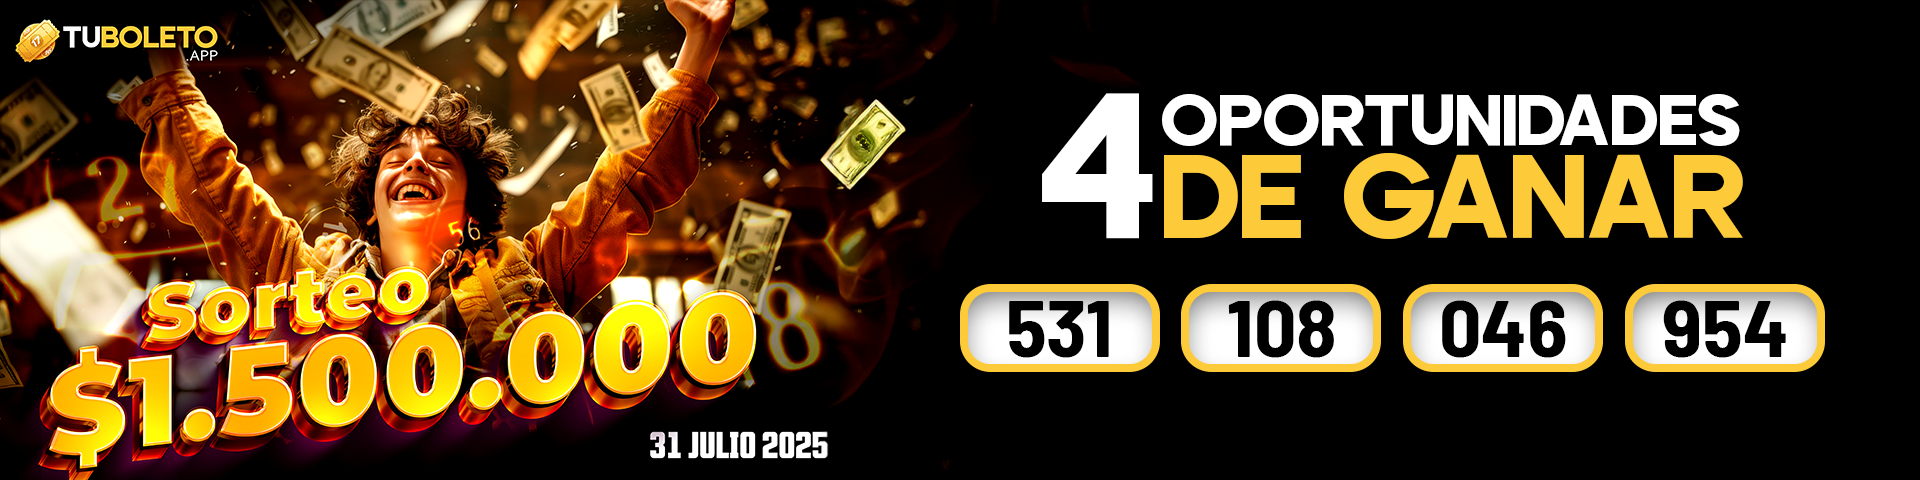
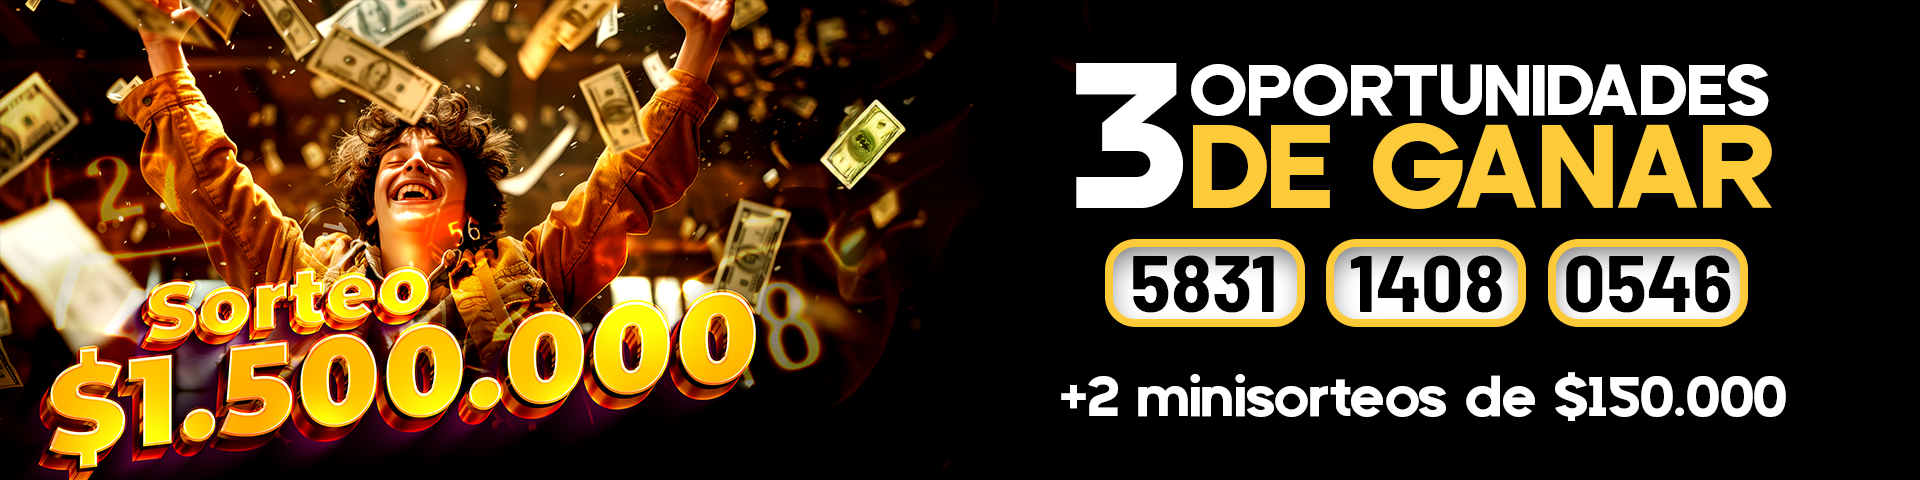
Actualizar estructura de index.html, modificar App.jsx para incluir nuevos componentes y ajustar estilos, además de reemplazar imagen en CarouselHero y realizar cambios en Hero.jsx. Se añade estilo para eliminar botones de incremento en inputs numéricos.

diff --git a/src/components/Main/FormComprador.jsx b/src/components/Main/FormComprador.jsx
@@ -1,0 +1,95 @@
+
+
+const FormComprador = () => {
+
+
+
+  return <div className="h-[600px] flex items-center justify-center w-full">
+  <div className="bg-base-300 p-8 rounded-lg shadow-md w-full max-w-xl">
+    <h2 className="text-2xl font-bold mb-4 text-gray-100">Formulario de Comprador</h2>
+    <form className="space-y-4">
+      <div>
+        <label htmlFor="name" className="block text-sm font-medium text-gray-200">
+          Nombre Completo
+        </label>
+        <input
+          type="text"
+          id="name"
+          name="name"
+          value=""
+          className="mt-1 block w-full rounded-md border-gray-300 shadow-sm focus:ring-blue-500 focus:border-blue-500 p-2 text-gray-100"
+          placeholder="Ingresa tu nombre"
+          required
+        />
+      </div>
+      <div>
+        <label htmlFor="email" className="block text-sm font-medium text-gray-200">
+          Correo Electrónico
+        </label>
+        <input
+          type="email"
+          id="email"
+          name="email"
+          value=""
+          className="mt-1 block w-full rounded-md border-gray-300 shadow-sm focus:ring-blue-500 focus:border-blue-500 p-2 text-gray-100"
+          placeholder="correo@ejemplo.com"
+          required
+        />
+      </div>
+      <div>
+        <label htmlFor="phone" className="block text-sm font-medium text-gray-200">
+          Teléfono
+        </label>
+        <input
+          type="tel"
+          id="phone"
+          name="phone"
+          value=""
+          className="mt-1 block w-full rounded-md border-gray-300 shadow-sm focus:ring-blue-500 focus:border-blue-500 p-2 text-gray-100"
+          placeholder="Número de teléfono"
+          required
+        />
+      </div>
+      <div>
+        <label htmlFor="email" className="block text-sm font-medium text-gray-200">
+          Email
+        </label>
+        <input
+          type="text"
+          id="email"
+          name="email"
+          value=""
+          className="mt-1 block w-full rounded-md border-gray-300 shadow-sm focus:ring-blue-500 focus:border-blue-500 p-2 text-gray-100"
+          placeholder="Ingresa tu dirección"
+          required
+        />
+      </div>
+      <div>
+        <label htmlFor="referido" className="block text-sm font-medium text-gray-200">
+          Referido
+        </label>
+        <input
+          type="text"
+          id="referido"
+          name="referido"
+          value=""
+          className="mt-1 block w-full rounded-md border-gray-300 shadow-sm focus:ring-blue-500 focus:border-blue-500 p-2 text-gray-100"
+          placeholder="Código de referido"
+          required
+        />
+      </div>
+
+      <div>
+        <button
+          type="submit"
+          className="w-full bg-blue-600 text-white py-2 px-4 rounded-md hover:bg-blue-700 transition-colors focus:outline-none focus:ring-2 focus:ring-blue-500 focus:ring-offset-2"
+        >
+          Pagar
+        </button>
+      </div>
+    </form>
+  </div>
+</div>;
+};
+
+export default FormComprador;

diff --git a/src/components/Main/SectionInputs.jsx b/src/components/Main/SectionInputs.jsx
@@ -1,0 +1,47 @@
+import Candado from "../../assets/img/candado.png";
+
+const SectionInputs = () => {
+  return <section className="mb-16 w-full grid place-items-center">
+        <div className="flex flex-col gap-3 px-12 py-12">
+        <h2 className="text-center text-2xl font-bold mt-8" >Elige tus números de la suerte</h2>
+            <div className="place-items-center">
+                <label htmlFor="numero1">Numero #1 <span>(4 cifras)</span>
+                </label>
+                <div className="flex items-center mt-4">
+                    <input type="number" id="numero1" name="numero1" className="bg-transparent text-center border border-white text-white text-2xl w-60 rounded-md p-6 py-2 appearance-none " min="1000" max="9999"  />
+                    <button className="bg-white text-black px-2 py-2 rounded-r-md  cursor-pointer">
+                        <img src={Candado} className="w-6" alt="candado" />
+                    </button>
+                </div>
+            </div>
+            <div className="place-items-center">
+                <label htmlFor="numero2">Numero #2 <span>(4 cifras)</span>
+                </label>
+                <div className="flex items-center mt-4">
+                    <input type="number" id="numero2" name="numero2" className="bg-transparent text-center border border-white text-white text-2xl w-60 rounded-md p-6 py-2 appearance-none  " min={0} max={4} />
+                    <button className="bg-white text-black px-2 py-2 rounded-r-md cursor-pointer">
+                        <img src={Candado} className="w-6" alt="candado" />
+                    </button>
+                </div>
+            </div>
+            <div className="place-items-center">
+                <label htmlFor="numero3">Numero #3 <span>(4 cifras)</span>
+                </label>
+                <div className="flex items-center mt-4">
+                    <input type="number" id="numero3" name="numero3" className="bg-transparent text-center border border-white text-white text-2xl w-60 rounded-md p-6 py-2 appearance-none  " min={0} max={4} />
+                    <button className="bg-white text-black px-2 py-2 rounded-r-md cursor-pointer">
+                        <img src={Candado} className="w-6" alt="candado" />
+                    </button>
+                </div>
+            </div>
+        </div>
+        <div className="flex justify-center gap-3">
+        <button className="btn btn-success">Asegurar</button>
+        
+        <button className="btn btn-outline btn-success">Aleatorio</button>
+        <button className="btn btn-outline btn-error">Limpiar</button>
+        </div>
+    </section>;
+};
+
+export default SectionInputs;

diff --git a/src/components/Hero/Hero.jsx b/src/components/Hero/Hero.jsx
@@ -1,6 +1,6 @@
 export const Hero = () => {
   return (
-    <div className="hero bg-base-200 min-h-[400px] rounded-3xl mb-6">
+    <div className="hero bg-base-300 min-h-[400px] rounded-3xl mb-6">
       <div className="hero-content text-center">
         <div className="max-w-xl">
           <h1 className="text-5xl font-bold">¡Haz realidad tus sueños!</h1>
@@ -9,9 +9,9 @@ export const Hero = () => {
             boleto hoy y da el primer paso hacia el premio que siempre has
             soñado.
           </p>
-          <button className="btn bg-amber-300 text-gray-900 font-bold">
-            ¡Compra tu boleto ahora!
-          </button>
+          {/* <button className="btn bg-amber-300 text-gray-900 font-bold"> */}
+            {/* ¡Compra tu boleto ahora! */}
+          {/* </button> */}
         </div>
       </div>
     </div>

diff --git a/src/App.jsx b/src/App.jsx
@@ -1,15 +1,23 @@
 import Banner from "./components/Hero/Banner";
 import { Hero } from "./components/Hero/Hero";
+import ModalBanner from "./components/Hero/ModalBanner";
 import NavBar from "./components/Hero/NavBar";
+import FormComprador from "./components/Main/FormComprador";
+import SectionInputs from "./components/Main/SectionInputs";
 import { ToggleBillCompleted } from "./components/Main/ToggleBillCompleted";
 
 function App() {
   return (
-    <div className="flex flex-col">
+    <div className="w-[1400px]">
+      <ModalBanner />
       <NavBar />
       <Hero />
-      <Banner />
-      <ToggleBillCompleted />
+      {/* <Banner /> */}
+      {/* <ToggleBillCompleted /> */}
+      <div className="flex justify-between gap-3 py-4">
+        <SectionInputs />
+        <FormComprador />
+      </div>
     </div>
   );
 }

diff --git a/src/components/Hero/ModalBanner.jsx b/src/components/Hero/ModalBanner.jsx
@@ -1,0 +1,30 @@
+import { CarouselHero } from "./CarouselHero"
+import { useState, useEffect } from "react"
+
+
+
+const ModalBanner = () => {
+
+    const [isOpen, setIsOpen] = useState(true)
+
+    useEffect(() => {
+        const modal = document.getElementById("my_modal_banner")
+        if (isOpen) {
+            modal.showModal()
+        }
+    }, [isOpen])
+  return (
+    <dialog id="my_modal_banner" className="modal ">
+        <div className="modal-box">
+
+            <CarouselHero />
+
+        </div>
+        <form method="dialog" className="modal-backdrop">
+            <button>close</button>
+        </form>
+    </dialog>
+  )
+}
+
+export default ModalBanner

diff --git a/index.html b/index.html
@@ -6,8 +6,8 @@
     <meta name="viewport" content="width=device-width, initial-scale=1.0" />
     <title>Tu Boleto App</title>
   </head>
-  <body>
-    <div id="root" class="flex items-center justify-center"></div>
+  <body class="flex items-center justify-center ">
+    <div id="root"></div>
     <script type="module" src="/src/main.jsx"></script>
   </body>
 </html>

diff --git a/src/index.css b/src/index.css
@@ -1,2 +1,10 @@
 @import "tailwindcss";
 @plugin "daisyui";
+
+@layer base {
+    input[type="number"]::-webkit-inner-spin-button,
+    input[type="number"]::-webkit-outer-spin-button {
+      -webkit-appearance: none;
+      margin: 0;
+    }
+  }

diff --git a/src/components/Hero/CarouselHero.jsx b/src/components/Hero/CarouselHero.jsx
@@ -1,4 +1,4 @@
-import Banner from "../../assets/img/bannerHorizontal.png";
+import Banner from "../../assets/img/vertica.png";
 
 export const CarouselHero = () => {
   return (
